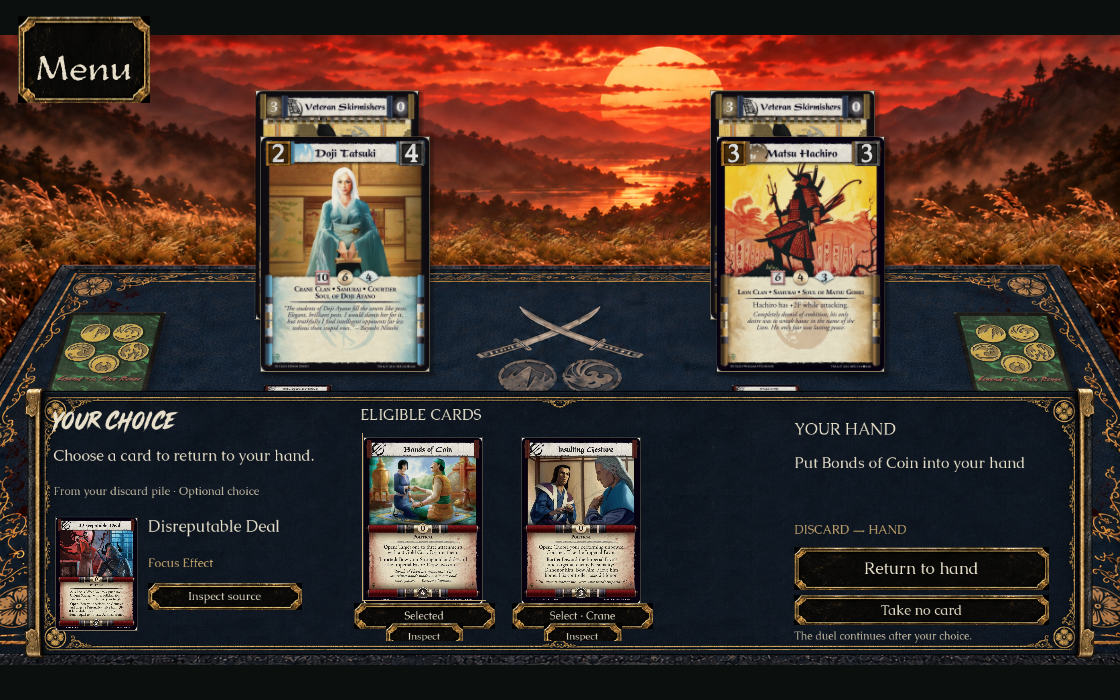
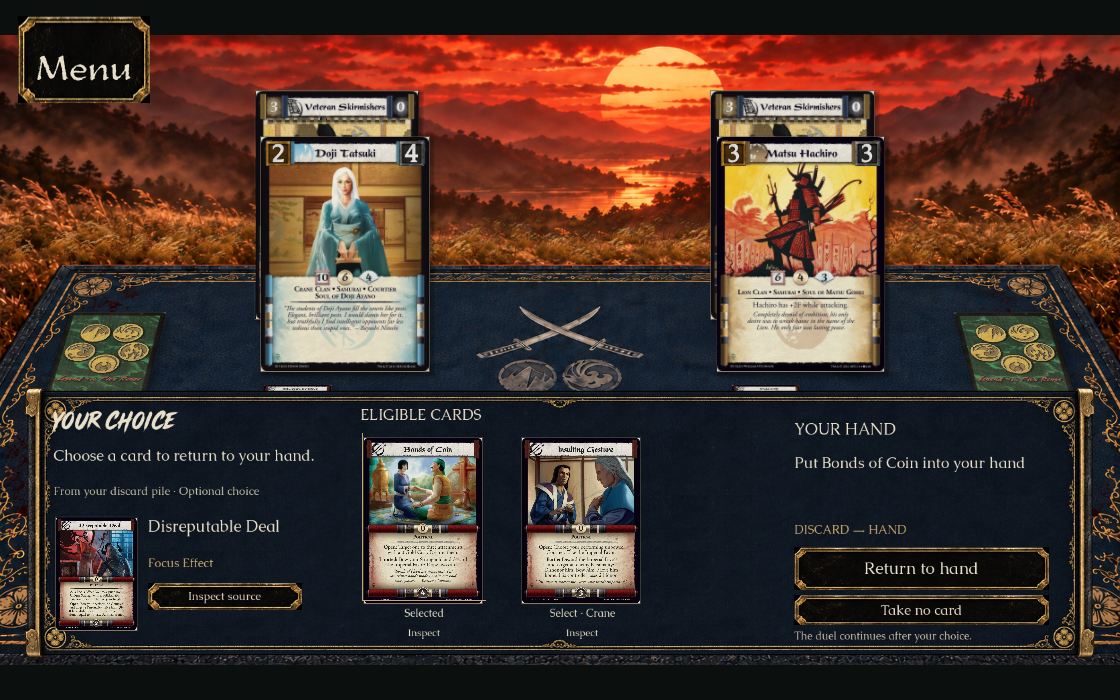
Polish and validate duel choice layout and review flows (#448)

Changed region(s): [[0.3125, 0.84, 0.5938, 0.93]]

diff --git a/src/L5R.Client/DuelScreen.FocusChoice.cs b/src/L5R.Client/DuelScreen.FocusChoice.cs
@@ -5,6 +5,7 @@ namespace L5R.Client;
 public partial class DuelScreen
 {
     private string? _focusChoiceTarget;
+    private int _focusChoiceScrollX;
     private bool FocusChoicePending=>Snapshot?.View.PendingChoice?.Type=="focusEffectChoice";
     internal string? SelectedFocusChoiceTarget=>_focusChoiceTarget;
     private IEnumerable<CardView> FocusChoiceCards()
@@ -34,8 +35,8 @@ public partial class DuelScreen
         DuelDecisionArt.Background(tray,true);
         Label Words(string text,Vector2 at,Vector2 size,int font=20,bool title=false,Color? color=null)
         {
-            var label=DuelUi.Text(text,font,color??Palette.Paper,title);label.Position=at;label.Size=size;
-            label.AutowrapMode=TextServer.AutowrapMode.WordSmart;label.MouseFilter=MouseFilterEnum.Ignore;tray.AddChild(label);return label;
+            var label=DuelUi.Text(text,font,color??Palette.Paper,title);label.AutowrapMode=TextServer.AutowrapMode.WordSmart;
+            label.Position=at;label.Size=size;label.MouseFilter=MouseFilterEnum.Ignore;tray.AddChild(label);return label;
         }
         var prompt=pending.Prompt;
         var prefix=$"{source?.Definition?.Name} (Focus Effect): {view.Players[pending.PlayerId].Name}, ";
@@ -60,6 +61,8 @@ public partial class DuelScreen
         }
         Words(cardChoices.Length>0?"ELIGIBLE CARDS":"AVAILABLE EFFECTS",new(502,27),new(600,35),22);
         var scroll=new ScrollContainer{Name="Focus choices",Position=new(493,67),Size=new(615,312),VerticalScrollMode=ScrollContainer.ScrollMode.Disabled};tray.AddChild(scroll);
+        var retainedScroll=_focusChoiceScrollX;
+        scroll.GetHScrollBar().ValueChanged+=value=>_focusChoiceScrollX=(int)value;
         var row=new HBoxContainer();row.AddThemeConstantOverride("separation",26);scroll.AddChild(row);
         // Leave room for the horizontal scrollbar when the legal set exceeds one row.
         var crowdedOffset=cardChoices.Length>2?16:0;
@@ -83,9 +86,9 @@ public partial class DuelScreen
                 var outline=new Panel{Position=new(12,1),Size=new(185-crowdedOffset*.72f,251-crowdedOffset),MouseFilter=MouseFilterEnum.Ignore};
                 outline.AddThemeStyleboxOverride("panel",Palette.Box(Colors.Transparent,Palette.Gold,2,0));column.AddChild(outline);
             }
-            var pick=DuelUi.Button(isSelected?"Selected":$"Select · {view.Players[card.OwnerId].Name}",Pick,fontSize:16);
+            var pick=FocusChoiceTextButton(isSelected?"Selected":$"Select · {view.Players[card.OwnerId].Name}",Pick,16);
             pick.Position=new(0,255-crowdedOffset);pick.Size=new(210,25);column.AddChild(pick);
-            var inspect=DuelUi.Button("Inspect",()=>Inspect(card),fontSize:15);inspect.Position=new(47,285-crowdedOffset);inspect.Size=new(116,25);
+            var inspect=FocusChoiceTextButton("Inspect",()=>Inspect(card),15);inspect.Position=new(47,285-crowdedOffset);inspect.Size=new(116,25);
             // Scroll content includes a separate inspection affordance; selecting never submits.
             column.CustomMinimumSize=new(210,308-crowdedOffset);column.AddChild(inspect);
         }
@@ -101,7 +104,7 @@ public partial class DuelScreen
         if(cardChoices.Length>0)
         {
             var confirm=DuelUi.Button(selected is null?"Select a card":returns?"Return to hand":selected.Label,()=>{if(selected?.Command is {} command)Submit(command);},fontSize:25);
-            confirm.Name="Resolve Focus choice";confirm.Position=new(rightX,239);confirm.Size=new(380,64);confirm.AutowrapMode=TextServer.AutowrapMode.WordSmart;tray.AddChild(confirm);
+            confirm.Name="Resolve Focus choice";confirm.AutowrapMode=TextServer.AutowrapMode.WordSmart;confirm.Position=new(rightX,239);confirm.Size=new(380,64);tray.AddChild(confirm);
             confirm.Disabled=selected is null||InputLocked||_submitted||_commandCooldown>0;
         }
         if(decline?.Command is {} declineCommand)
@@ -111,8 +114,17 @@ public partial class DuelScreen
             skip.Disabled=InputLocked||_submitted||_commandCooldown>0;
         }
         Words("The duel continues after your choice.",new(rightX,361),new(395,26),16,color:Palette.PaperDim);
+        scroll.SetDeferred(ScrollContainer.PropertyName.ScrollHorizontal,retainedScroll);
         // A complete engine prompt remains available without crowding the primary choice.
         tray.TooltipText=prompt;
+    }
+    private static Button FocusChoiceTextButton(string text,Action action,int fontSize)
+    {
+        var button=DuelUi.Button(text,action,fontSize:fontSize);button.CustomMinimumSize=Vector2.Zero;
+        foreach(var state in new[]{"normal","hover","pressed","disabled"})
+            button.AddThemeStyleboxOverride(state,new StyleBoxEmpty{ContentMarginTop=2,ContentMarginBottom=2,ContentMarginLeft=4,ContentMarginRight=4});
+        button.AddThemeColorOverride("font_hover_color",Palette.Gold);
+        return button;
     }
     private CardTile AddFocusChoiceFace(Control parent,CardView card,Vector2 position,float height,Action choose)
     {

diff --git a/src/L5R.Client/Main.DuelFollowupProbe.cs b/src/L5R.Client/Main.DuelFollowupProbe.cs
@@ -42,6 +42,8 @@ public partial class Main
         {
             case 0:
                 Check(view.PendingChoice?.Type=="focusEffectChoice"&&view.LastDuel?.Result is null,"decision pauses final verdict");
+                var tray=Descendants(screen!).OfType<Control>().Single(c=>c.Name=="Focus Effect choice tray");
+                Check(tray.GetChildren().OfType<Label>().All(l=>l.Position.X>=0&&l.Position.Y>=0&&l.Position.X+l.Size.X<=tray.Size.X&&l.Position.Y+l.Size.Y<=tray.Size.Y),"choice explanations stay within the tray");
                 Shot(view.ViewerId==view.PriorityPlayerId?"choice":"waiting");
                 if(view.ViewerId!=view.PriorityPlayerId)
                 {Check(!Descendants(screen!).OfType<Button>().Any(b=>b.Text is "Return to hand" or "Take no card"),"waiting seat has no choice controls");Press("Menu");_followupStep=100;return true;}

diff --git a/src/L5R.Client/DuelScreen.cs b/src/L5R.Client/DuelScreen.cs
@@ -60,7 +60,7 @@ public partial class DuelScreen : Control
         if(Snapshot?.View is {} previous && previous.Version==snapshot.View.Version && previous.ViewerId==snapshot.View.ViewerId && previous.Scenario==snapshot.View.Scenario)return;
         var changedSeat=Snapshot?.View.ViewerId!=snapshot.View.ViewerId;
         _previousZones=(Snapshot?.View.Players.SelectMany(p=>p.Hand.Concat(p.Focused??[]).Concat(p.Discard))??[]).ToDictionary(c=>c.Id,c=>c.Zone);
-        _focusChoiceTarget=null;
+        _focusChoiceTarget=null;_focusChoiceScrollX=0;
         HideCardHover();Snapshot=snapshot;_submitted=false;_selectedDeck=false;_dragCard=null;ClearReading();
         if(changedSeat){CloseGuidance();_selectedHand=null;_selectedFocus=null;_selectedInspection=null;}
         var record=snapshot.View.LastDuel;

diff --git a/docs/DUEL_FOLLOWUPS.md b/docs/DUEL_FOLLOWUPS.md
@@ -1,0 +1,37 @@
+# Live duel follow-ups — review candidate
+
+Issue [#448](https://github.com/alfredoh7/l5r-emperor/issues/448), PR [#466](https://github.com/alfredoh7/l5r-emperor/pull/466). Alfredo approved 1A for concession and the 2B/2A/2C combination for paused Focus Effect choices. This is an unmerged review candidate.
+
+## Implemented behavior
+
+- The live duel menu offers the engine's **Concede match** command. A centered confirmation says the opponent wins the entire match. **Keep playing** has initial keyboard focus; it and Escape dismiss without submitting. The final click uses the current engine command and normal session guards.
+- A Focus Effect decision occupies the lower tray while the duelists remain visible. The source is separate from the legal candidate cards, which retain complete period scans and explicit inspection. A quiet outline marks selection; a separate action describes the result and destination. Decline exists only when offered by the engine. Simple effect options act directly.
+- The other seat gets a waiting view; its screen cannot choose for the acting player. Manual seat changes retain the opaque handoff. Crowded choices scroll horizontally.
+- The engine records each public choice outcome as a source-linked beat before continuing to the next effect. Consecutive pauses retain execution order; rejected/stale commands add no beat. Draw evidence excludes hidden card identities. The existing cinematic and aftermath recap consume this evidence.
+- The practice opponent now consumes an offered Focus Effect command instead of stalling at a paused choice. Targeting, optionality and outcomes remain authoritative in Core.
+
+## Prepared reviews
+
+On this Mac run `python3 tools/create-duel-review-launchers.py`. Apps appear in `artifacts/duel-followups/Launchers`: Return a Card, Concede, Other Seat, Crowded, Attach, Required Straighten, Destroy Attachment, Honor or Draw, Consecutive Choices, and Reduced Motion. They build/run this checkout with isolated review profiles, never fetch or switch branches. Close and relaunch to reset.
+
+The portable Windows package is specified by `previews/duel-followups.json`. Its source commit, private release, checksum and delivery validation are recorded in `previews/published/duel-followups.json` once published. Start Review enters a prepared real decision; Other previews contains each remaining case. Full Game opens the same build's normal menus. No external runtime or source checkout is needed.
+
+## Appearance and evidence
+
+[Approved/native comparison](screenshots/duel-followups/comparison.html) includes complete views and matching-width frames. [Native input evidence](screenshots/duel-followups/native-checks.json) records the checks for 13 scenarios.
+
+Dedicated ImageGen derivatives use the approved navy/black surfaces and gold frame ornaments, with fixed-proportion corners. Prompts and source paths are in `assets/ui/duel-followups/production-prompts.json`. Live typography, period card scans and the existing duel button skin remain native. This preserves the existing upright duelist camera rather than reproducing the concepts' flatter camera. It is not a pixel-identical full-screen recreation. The selected action says DISCARD → HAND so the cue cannot appear to originate at another candidate.
+
+## Validation and review boundaries
+
+The client compiles without warnings. `bash tools/check.sh --skip-client` passed, including four new public-evidence/replay/privacy regressions and 95 AI tests (21 exercise the seven new prepared positions on three seeds), eight server and twelve transport checks. All thirteen follow-up native scenarios passed. Final layout reruns cover each choice kind, consecutive decisions, scroll-position retention, the last crowded candidate inspector, and bounds for longer explanations. The existing live-match suite passed 14/14 variants; sandbox/guidance passed 5/5 (including its full stage matrix); transition checks passed 5/5. The 1120 × 700 rerun is recorded with the native evidence.
+
+The prepared duel transition relies on a graphical renderer. A diagnostic headless scenario reached its decision but emitted dummy-renderer image/shader errors, so it is not counted as a graphical launch check. Use the native launchers for playtesting; ordinary packaged-menu headless CI remains separate.
+
+The additional legacy `check-crimson-duel.sh` static-art probe stops at a 0.50006104 px projection mismatch against its 0.5 px threshold. The exact failure was reproduced on unchanged main `de672f58` in a separate checkout; no relevant projection/rendering file differs. This probe is not counted as passed, and its later cases were not run. The live match, sandbox and transition suites above passed.
+
+Windows graphical play, expert rules acceptance and final human implementation review remain open. A passing export, checksum or Windows launcher/runtime CI does not satisfy those human gates. Do not merge automatically. Other open UI preview PRs are separate from this current-main-based build.
+
+## Concurrent work
+
+Checked current main `de672f58` and open PR #465 (Embers of War). The Core choice-resolution integration adds only evidence capture before/after an existing decision; it preserves eligibility and resolution. Public `focusEffectRevenge` is recognized for #465 compatibility. That PR's mechanics and the interaction fixes in #464 remain separate. Recheck current heads before merging.
